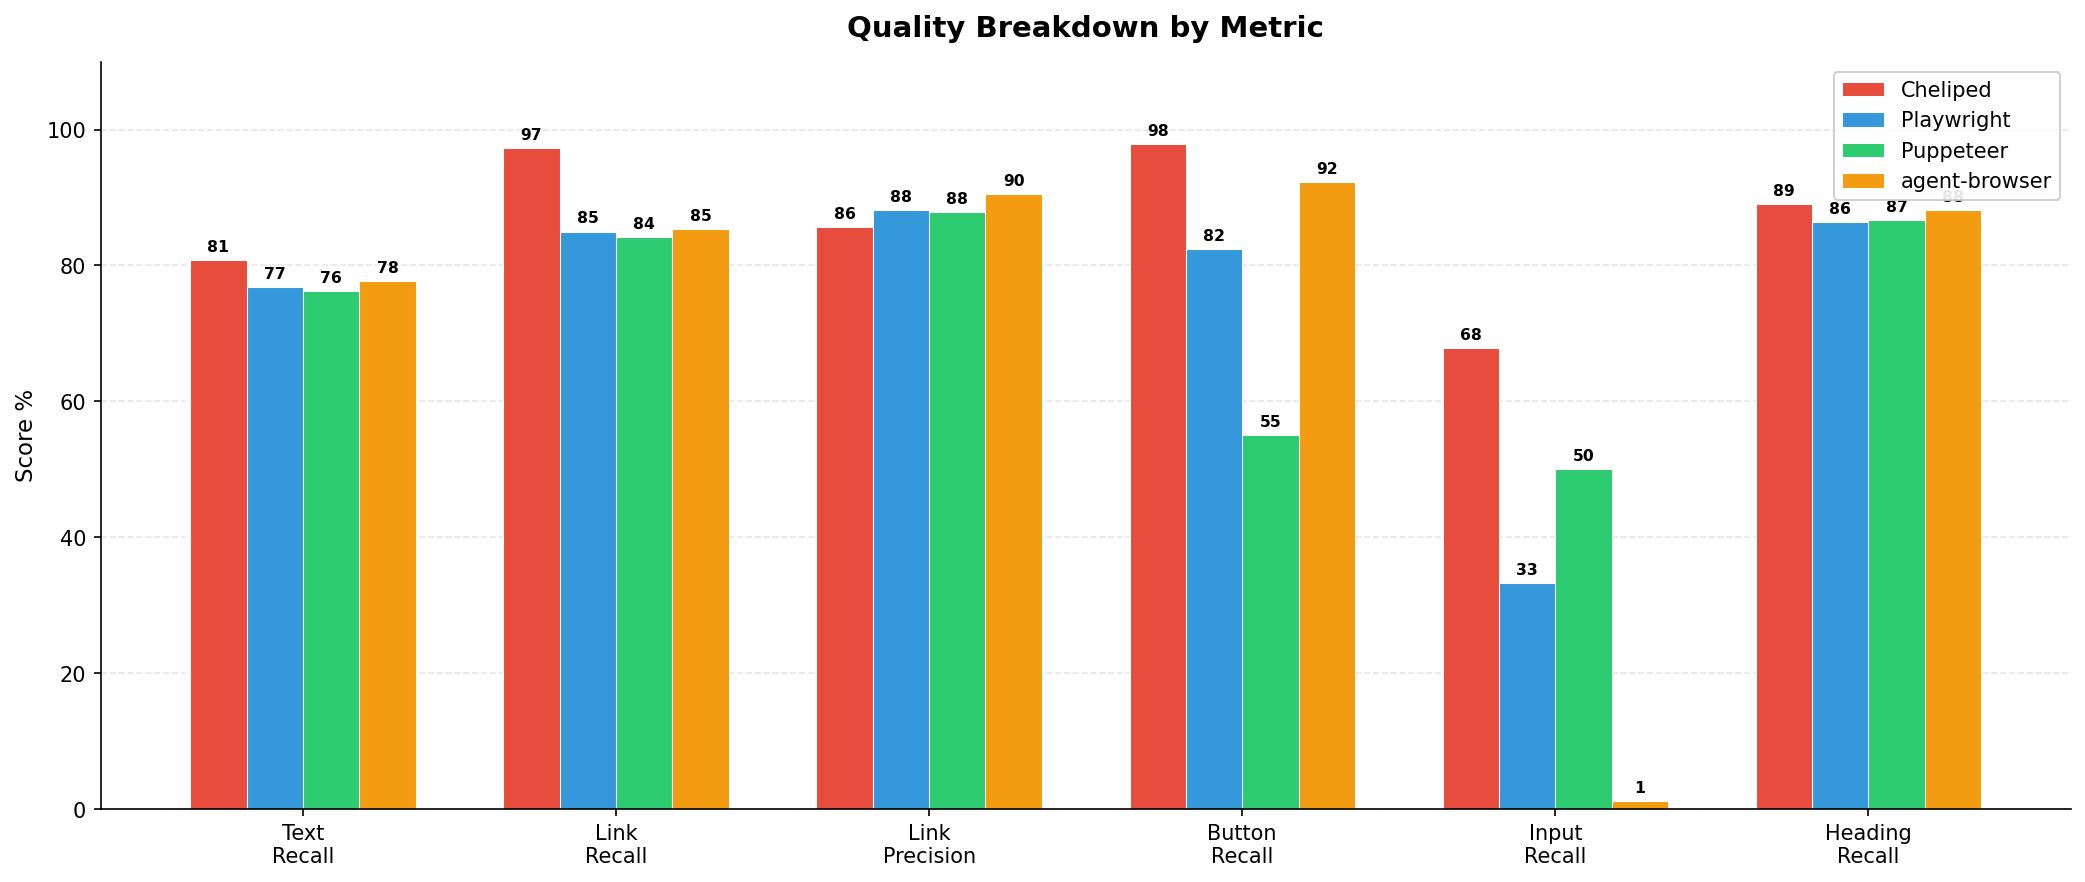
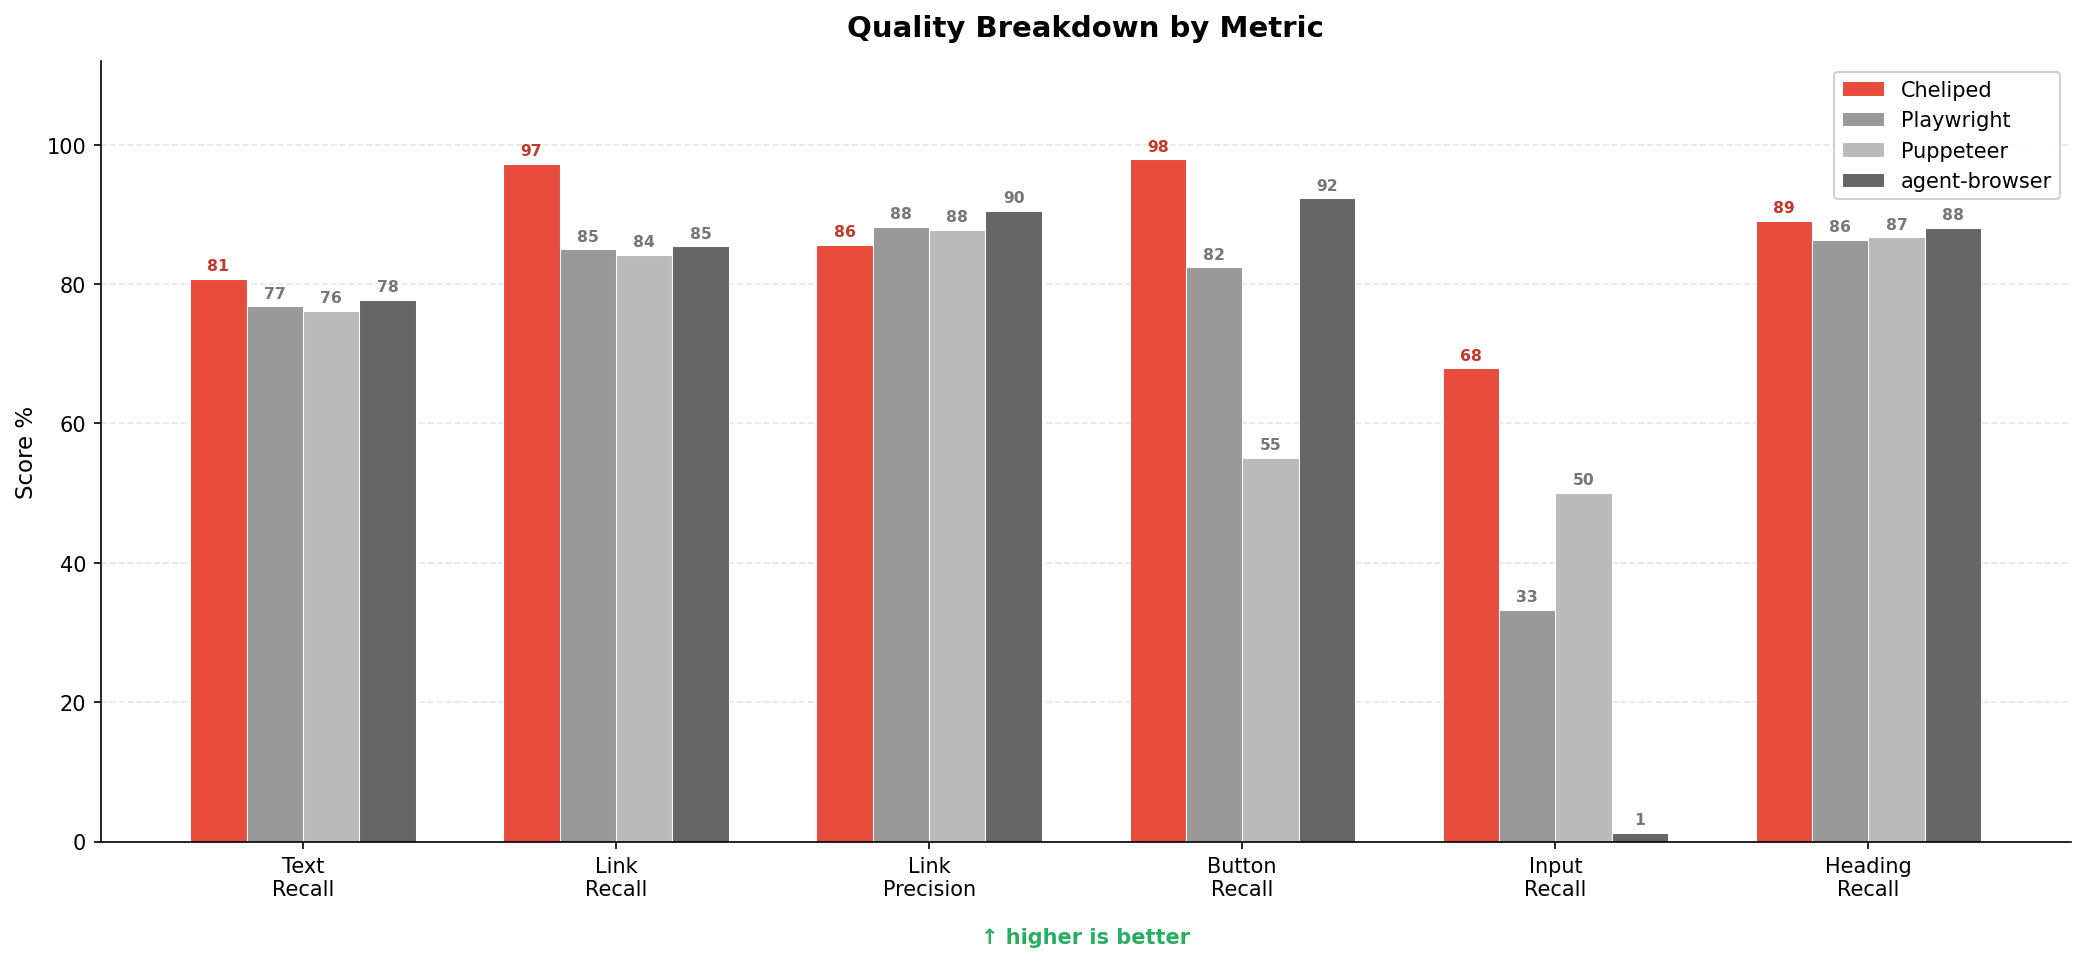
Fix charts: Cheliped-only color, grayscale others, clear direction labels
- Cheliped bars in red (#e74c3c), all others in grayscale
- Direction indicators: blue down-arrow for "lower is better", green up-arrow for "higher is better"
- Remove Korean text from README (OpenClaw example)
- Delete docs/sns-promo-kr.md (content moved to chat)

diff --git a/scripts/generate-charts.py b/scripts/generate-charts.py
@@ -11,15 +11,22 @@ matplotlib.use('Agg')
 OUT_DIR = os.path.join(os.path.dirname(__file__), '..', 'docs', 'images')
 os.makedirs(OUT_DIR, exist_ok=True)
 
-# --- Color palette ---
+# --- Colors: Cheliped = red accent, others = grayscale ---
 COLORS = {
     'Cheliped': '#e74c3c',
-    'Playwright': '#3498db',
-    'Puppeteer': '#2ecc71',
-    'agent-browser': '#f39c12',
+    'Playwright': '#999999',
+    'Puppeteer': '#bbbbbb',
+    'agent-browser': '#666666',
 }
 
-def style_ax(ax, title, ylabel):
+# --- "lower is better" uses down arrow + green accent for Cheliped being lowest
+#     "higher is better" uses up arrow + green accent for Cheliped being highest
+LOWER_NOTE_COLOR = '#2980b9'
+HIGHER_NOTE_COLOR = '#27ae60'
+
+
+def style_ax(ax, title, ylabel, direction=None):
+    """direction: 'lower' or 'higher'"""
     ax.set_title(title, fontsize=14, fontweight='bold', pad=12)
     ax.set_ylabel(ylabel, fontsize=11)
     ax.spines['top'].set_visible(False)
@@ -28,51 +35,54 @@ def style_ax(ax, title, ylabel):
     ax.tick_params(axis='y', labelsize=10)
     ax.yaxis.grid(True, alpha=0.3, linestyle='--')
     ax.set_axisbelow(True)
+    if direction == 'lower':
+        ax.annotate('\u2193 lower is better', xy=(0.5, -0.13), xycoords='axes fraction',
+                    ha='center', fontsize=10, color=LOWER_NOTE_COLOR, fontweight='bold')
+    elif direction == 'higher':
+        ax.annotate('\u2191 higher is better', xy=(0.5, -0.13), xycoords='axes fraction',
+                    ha='center', fontsize=10, color=HIGHER_NOTE_COLOR, fontweight='bold')
 
 
-def add_value_labels(ax, bars, fmt='{:.0f}'):
-    for bar in bars:
+def add_value_labels(ax, bars, fmt='{:.0f}', highlight_idx=0):
+    for i, bar in enumerate(bars):
         h = bar.get_height()
+        color = '#c0392b' if i == highlight_idx else '#555'
         ax.text(bar.get_x() + bar.get_width() / 2, h,
-                fmt.format(h), ha='center', va='bottom', fontsize=9, fontweight='bold')
+                fmt.format(h), ha='center', va='bottom',
+                fontsize=9, fontweight='bold', color=color)
 
 
 # ============================================================
 # 1. Summary: Avg Tokens / Avg Speed / Quality (3-in-1)
 # ============================================================
-fig, axes = plt.subplots(1, 3, figsize=(16, 5))
+fig, axes = plt.subplots(1, 3, figsize=(16, 5.5))
 
 tools = ['Cheliped', 'Playwright', 'Puppeteer', 'agent-browser']
 colors = [COLORS[t] for t in tools]
 
-# 1a. Avg Tokens
+# 1a. Avg Tokens (lower is better)
 vals = [2864, 5704, 5051, 11882]
 bars = axes[0].bar(tools, vals, color=colors, width=0.6, edgecolor='white', linewidth=0.5)
-style_ax(axes[0], 'Average Output Tokens', 'Tokens')
-axes[0].set_ylim(0, max(vals) * 1.15)
+style_ax(axes[0], 'Average Output Tokens', 'Tokens', direction='lower')
+axes[0].set_ylim(0, max(vals) * 1.18)
 add_value_labels(axes[0], bars)
-axes[0].annotate('lower is better', xy=(0.5, -0.12), xycoords='axes fraction',
-                 ha='center', fontsize=9, color='#666', style='italic')
 
-# 1b. Avg Speed
+# 1b. Avg Speed (lower is better)
 vals = [51, 78, 81, 205]
 bars = axes[1].bar(tools, vals, color=colors, width=0.6, edgecolor='white', linewidth=0.5)
-style_ax(axes[1], 'Average Extraction Speed', 'ms')
-axes[1].set_ylim(0, max(vals) * 1.15)
+style_ax(axes[1], 'Average Extraction Speed', 'ms', direction='lower')
+axes[1].set_ylim(0, max(vals) * 1.18)
 add_value_labels(axes[1], bars)
-axes[1].annotate('lower is better', xy=(0.5, -0.12), xycoords='axes fraction',
-                 ha='center', fontsize=9, color='#666', style='italic')
 
-# 1c. Quality Score
+# 1c. Quality Score (higher is better)
 vals = [86.4, 75.4, 73.4, 72.8]
 bars = axes[2].bar(tools, vals, color=colors, width=0.6, edgecolor='white', linewidth=0.5)
-style_ax(axes[2], 'Content Recognition Quality', 'Score %')
-axes[2].set_ylim(0, 100)
+style_ax(axes[2], 'Content Recognition Quality', 'Score %', direction='higher')
+axes[2].set_ylim(0, 105)
 add_value_labels(axes[2], bars, fmt='{:.1f}%')
-axes[2].annotate('higher is better', xy=(0.5, -0.12), xycoords='axes fraction',
-                 ha='center', fontsize=9, color='#666', style='italic')
 
 for ax in axes:
+    ax.set_xticks(range(len(tools)))
     ax.set_xticklabels(tools, rotation=15, ha='right')
 
 plt.tight_layout(pad=2)
@@ -82,9 +92,9 @@ plt.close()
 
 
 # ============================================================
-# 2. Quality Breakdown by Metric (grouped bar)
+# 2. Quality Breakdown by Metric (grouped bar) — higher is better
 # ============================================================
-fig, ax = plt.subplots(figsize=(14, 6))
+fig, ax = plt.subplots(figsize=(14, 6.5))
 
 metrics = ['Text\nRecall', 'Link\nRecall', 'Link\nPrecision', 'Button\nRecall', 'Input\nRecall', 'Heading\nRecall']
 data = {
@@ -102,14 +112,16 @@ offsets = np.linspace(-(n-1)/2 * width, (n-1)/2 * width, n)
 for i, (name, vals) in enumerate(data.items()):
     bars = ax.bar(x + offsets[i], vals, width, label=name, color=COLORS[name],
                   edgecolor='white', linewidth=0.5)
+    label_color = '#c0392b' if name == 'Cheliped' else '#777'
     for bar, v in zip(bars, vals):
         ax.text(bar.get_x() + bar.get_width() / 2, bar.get_height() + 0.8,
-                f'{v:.0f}', ha='center', va='bottom', fontsize=7.5, fontweight='bold')
+                f'{v:.0f}', ha='center', va='bottom', fontsize=7.5,
+                fontweight='bold', color=label_color)
 
 ax.set_xticks(x)
 ax.set_xticklabels(metrics, fontsize=11)
-style_ax(ax, 'Quality Breakdown by Metric', 'Score %')
-ax.set_ylim(0, 110)
+style_ax(ax, 'Quality Breakdown by Metric', 'Score %', direction='higher')
+ax.set_ylim(0, 112)
 ax.legend(loc='upper right', fontsize=10, framealpha=0.9)
 
 plt.tight_layout()
@@ -119,9 +131,9 @@ plt.close()
 
 
 # ============================================================
-# 3. Per-Site Token Comparison (grouped bar)
+# 3. Per-Site Token Comparison (grouped bar) — lower is better
 # ============================================================
-fig, ax = plt.subplots(figsize=(14, 6))
+fig, ax = plt.subplots(figsize=(14, 6.5))
 
 sites = ['Hacker\nNews', 'Wikipedia', 'GitHub', 'Example\n.com', 'React\n(SPA)', 'MDN\nWeb Docs']
 data = {
@@ -132,20 +144,16 @@ data = {
 }
 
 x = np.arange(len(sites))
-width = 0.18
-offsets = np.linspace(-(n-1)/2 * width, (n-1)/2 * width, n)
 
 for i, (name, vals) in enumerate(data.items()):
-    bars = ax.bar(x + offsets[i], vals, width, label=name, color=COLORS[name],
-                  edgecolor='white', linewidth=0.5)
+    ax.bar(x + offsets[i], vals, width, label=name, color=COLORS[name],
+           edgecolor='white', linewidth=0.5)
 
 ax.set_xticks(x)
 ax.set_xticklabels(sites, fontsize=11)
-style_ax(ax, 'Output Tokens per Site', 'Tokens')
+style_ax(ax, 'Output Tokens per Site', 'Tokens', direction='lower')
 ax.set_ylim(0, 42000)
 ax.legend(loc='upper right', fontsize=10, framealpha=0.9)
-ax.annotate('lower is better', xy=(0.5, -0.1), xycoords='axes fraction',
-            ha='center', fontsize=9, color='#666', style='italic')
 
 plt.tight_layout()
 plt.savefig(os.path.join(OUT_DIR, 'benchmark-tokens-per-site.png'), dpi=150, bbox_inches='tight',
@@ -154,9 +162,9 @@ plt.close()
 
 
 # ============================================================
-# 4. Per-Site Speed Comparison (grouped bar)
+# 4. Per-Site Speed Comparison (grouped bar) — lower is better
 # ============================================================
-fig, ax = plt.subplots(figsize=(14, 6))
+fig, ax = plt.subplots(figsize=(14, 6.5))
 
 data = {
     'Cheliped':       [46, 83, 113, 7, 6, 52],
@@ -166,16 +174,14 @@ data = {
 }
 
 for i, (name, vals) in enumerate(data.items()):
-    bars = ax.bar(x + offsets[i], vals, width, label=name, color=COLORS[name],
-                  edgecolor='white', linewidth=0.5)
+    ax.bar(x + offsets[i], vals, width, label=name, color=COLORS[name],
+           edgecolor='white', linewidth=0.5)
 
 ax.set_xticks(x)
 ax.set_xticklabels(sites, fontsize=11)
-style_ax(ax, 'Extraction Speed per Site', 'ms')
+style_ax(ax, 'Extraction Speed per Site', 'ms', direction='lower')
 ax.set_ylim(0, 300)
 ax.legend(loc='upper right', fontsize=10, framealpha=0.9)
-ax.annotate('lower is better', xy=(0.5, -0.1), xycoords='axes fraction',
-            ha='center', fontsize=9, color='#666', style='italic')
 
 plt.tight_layout()
 plt.savefig(os.path.join(OUT_DIR, 'benchmark-speed-per-site.png'), dpi=150, bbox_inches='tight',

diff --git a/README.md b/README.md
@@ -95,7 +95,7 @@ Key design choices for Claude Code compatibility:
 3. **Multi-agent browsing** — `--session` flag lets different OpenClaw agents browse independently with isolated Chrome instances
 
 ```
-OpenClaw Agent: "어시, 해커뉴스 톱 3 뉴스 알려줘"
+OpenClaw Agent: "What are the top 3 stories on Hacker News?"
     │
     ▼
 OpenClaw: skill match → cheliped-browser → browser tool
@@ -104,7 +104,7 @@ OpenClaw: skill match → cheliped-browser → browser tool
 Cheliped: goto → observe → Agent DOM
     │
     ▼
-Agent: "현재 Hacker News 톱 3 뉴스: 1. ... 2. ... 3. ..."
+Agent: "The top 3 Hacker News stories are: 1. ... 2. ... 3. ..."
 ```
 
 ### Why Not Just Use Playwright/Puppeteer Directly?
